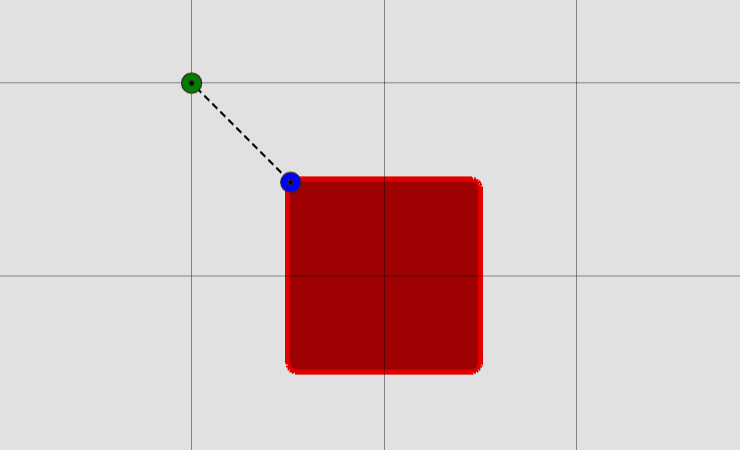
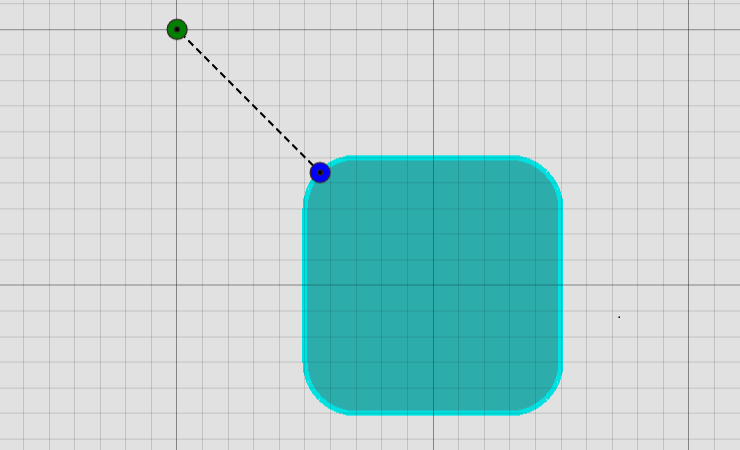
Changed samples/images from solid red

diff --git a/src/frontend-samples/geometry-samples/simple-3d-sample/Simple3dUI.tsx b/src/frontend-samples/geometry-samples/simple-3d-sample/Simple3dUI.tsx
@@ -4,9 +4,8 @@
 *--------------------------------------------------------------------------------------------*/
 import * as React from "react";
 import { BlankViewport } from "common/GeometryCommon/BlankViewport";
-import { ColorDef } from "@bentley/imodeljs-common";
+import { ColorByName, ColorDef } from "@bentley/imodeljs-common";
 import { ControlPane } from "Components/ControlPane/ControlPane"; import { NumericInput, Select } from "@bentley/ui-core";
-import { ColorPickerButton } from "@bentley/ui-components";
 import Simple3dApp from "./Simple3dApp";
 import { PolyfaceBuilder, StrokeOptions } from "@bentley/geometry-core";
 import { GeometryDecorator } from "common/GeometryCommon/GeometryDecorator";
@@ -36,7 +35,7 @@ export default class Simple3dUI extends React.Component<{}, Simple3dState> {
     IModelApp.viewManager.addDecorator(decorator);
     this.state = {
       shape: "Box",
-      color: ColorDef.red,
+      color: ColorDef.fromTbgr(ColorDef.withTransparency(ColorDef.create(ColorByName.cyan).tbgr, 50)),
       sphereRadius: 4,
       boxLength: 4,
       boxWidth: 4,
@@ -95,8 +94,6 @@ export default class Simple3dUI extends React.Component<{}, Simple3dState> {
         <div className="sample-options-2col">
           <span>Shape:</span>
           <Select options={["Box", "Cone", "Sphere", "Torus Pipe"]} onChange={(event) => { this.setState({ shape: event.target.value }); }} />
-          <span>Color:</span>
-          <ColorPickerButton initialColor={this.state.color} onColorPick={(color: ColorDef) => { this.setState({ color }); }} />
           {this.state.shape === "Sphere" ? <span>Radius:</span> : undefined}
           {this.state.shape === "Sphere" ? <NumericInput defaultValue={this.state.sphereRadius} min={0} max={500} onChange={(value) => { if (value) this.setState({ sphereRadius: value }); }}></NumericInput> : undefined}
 

diff --git a/src/frontend-samples/geometry-samples/advanced-3d-sample/Advanced3dUI.tsx b/src/frontend-samples/geometry-samples/advanced-3d-sample/Advanced3dUI.tsx
@@ -4,10 +4,9 @@
 *--------------------------------------------------------------------------------------------*/
 import * as React from "react";
 import { BlankViewport } from "common/GeometryCommon/BlankViewport";
-import { ColorDef } from "@bentley/imodeljs-common";
+import { ColorByName, ColorDef } from "@bentley/imodeljs-common";
 import { ControlPane } from "Components/ControlPane/ControlPane";
 import { Select } from "@bentley/ui-core";
-import { ColorPickerButton } from "@bentley/ui-components";
 import Advanced3dApp from "./Advanced3dApp";
 import { IModelApp } from "@bentley/imodeljs-frontend";
 import { GeometryDecorator } from "common/GeometryCommon/GeometryDecorator";
@@ -27,7 +26,7 @@ export default class Advanced3d extends React.Component<{}, Advanced3dState> {
     IModelApp.viewManager.addDecorator(decorator);
     this.state = {
       shape: "Sweeps",
-      color: ColorDef.red,
+      color: ColorDef.fromTbgr(ColorDef.withTransparency(ColorDef.create(ColorByName.cyan).tbgr, 50)),
       sweepType: "Linear",
       decorator,
     };
@@ -59,8 +58,6 @@ export default class Advanced3d extends React.Component<{}, Advanced3dState> {
         <div className="sample-options-2col">
           <span>Shape:</span>
           <Select options={["Sweeps", "Mitered Pipes"]} onChange={(event) => { this.setState({ shape: event.target.value }); }} />
-          <span>Color:</span>
-          <ColorPickerButton initialColor={this.state.color} onColorPick={(color: ColorDef) => { this.setState({ color }); }} />
           {this.state.shape === "Sweeps" ? <span>Sweep Type:</span> : undefined}
           {this.state.shape === "Sweeps" ? <Select options={["Linear", "Ruled", "Rotational"]} onChange={(event) => { this.setState({ sweepType: event.target.value }); }} /> : undefined}
         </div>

diff --git a/src/frontend-samples/geometry-samples/2d-transformations-sample/2dTransformationsUI.tsx b/src/frontend-samples/geometry-samples/2d-transformations-sample/2dTransformationsUI.tsx
@@ -5,7 +5,7 @@
 import * as React from "react";
 import { BlankViewport } from "common/GeometryCommon/BlankViewport";
 import { Loop, Point3d } from "@bentley/geometry-core";
-import { ColorDef } from "@bentley/imodeljs-common";
+import { ColorByName, ColorDef } from "@bentley/imodeljs-common";
 import { ControlPane } from "Components/ControlPane/ControlPane";
 import { Button, NumericInput, Select } from "@bentley/ui-core";
 import Transformations2dApp from "./2dTransformationsApp";
@@ -30,7 +30,7 @@ export default class Transformations2dUI extends React.Component<{}, Transformat
     IModelApp.viewManager.addDecorator(decorator);
     this.state = {
       shape: "Square",
-      color: ColorDef.red,
+      color: ColorDef.fromTbgr(ColorDef.withTransparency(ColorDef.create(ColorByName.cyan).tbgr, 50)),
       xTrans: 1,
       yTrans: 1,
       rotationDeg: 180,
@@ -42,7 +42,7 @@ export default class Transformations2dUI extends React.Component<{}, Transformat
   public componentDidUpdate() {
     if (this.state.geometry) {
       this.state.decorator.clearGeometry();
-      this.state.decorator.setColor(ColorDef.red);
+      this.state.decorator.setColor(this.state.color);
       this.state.decorator.setLineThickness(5);
       this.state.decorator.addGeometry(this.state.geometry);
     }

diff --git a/src/frontend-samples/geometry-samples/closest-point-curve-sample/ClosestPointOnCurveUI.tsx b/src/frontend-samples/geometry-samples/closest-point-curve-sample/ClosestPointOnCurveUI.tsx
@@ -8,7 +8,7 @@ import { ControlPane } from "Components/ControlPane/ControlPane";
 import { Input, NumericInput, Select } from "@bentley/ui-core";
 import ClosestPointOnCurveApp from "./ClosestPointOnCurveApp";
 import { CurvePrimitive, LineSegment3d, Point3d } from "@bentley/geometry-core";
-import { ColorDef, LinePixels } from "@bentley/imodeljs-common";
+import { ColorByName, ColorDef, LinePixels } from "@bentley/imodeljs-common";
 import { InteractivePointMarker } from "common/GeometryCommon/InteractivePointMarker";
 import { IModelApp } from "@bentley/imodeljs-frontend";
 import { GeometryDecorator } from "common/GeometryCommon/GeometryDecorator";
@@ -114,7 +114,7 @@ export default class ClosestPointOnCurveUI extends React.Component<{}, ClosestPo
     // Add the curvePrimitive
     this.state.decorator.setColor(ColorDef.black);
     this.state.decorator.setFill(true);
-    this.state.decorator.setFillColor(ColorDef.red);
+    this.state.decorator.setFillColor(ColorDef.fromTbgr(ColorDef.withTransparency(ColorDef.create(ColorByName.cyan).tbgr, 50)));
     this.state.decorator.setLineThickness(5);
     this.state.decorator.setLinePixels(LinePixels.Solid);
     this.state.decorator.addGeometry(this.curve);

diff --git a/src/frontend-samples/geometry-samples/simple-line-sample/SimpleLineUI.tsx b/src/frontend-samples/geometry-samples/simple-line-sample/SimpleLineUI.tsx
@@ -10,7 +10,7 @@ import SimpleLineApp from "./SimpleLineApp";
 import { GeometryDecorator } from "common/GeometryCommon/GeometryDecorator";
 import { IModelApp } from "@bentley/imodeljs-frontend";
 import { InteractivePointMarker } from "common/GeometryCommon/InteractivePointMarker";
-import { ColorDef } from "@bentley/imodeljs-common";
+import { ColorByName, ColorDef } from "@bentley/imodeljs-common";
 
 interface SimpleLineState {
   point1X: number;
@@ -80,7 +80,7 @@ export default class SimpleLine extends React.Component<{}, SimpleLineState> {
     const fractions = [0.0, 0.1, 0.15, 0.2, 0.25, 0.5, 0.9, 1.0, 1.1];
     const points = SimpleLineApp.createPointsAlongLine(myLine, fractions);
     points.forEach((point, i) => {
-      const marker = new InteractivePointMarker(point, `Fraction = ${fractions[i]}`, ColorDef.red, () => { });
+      const marker = new InteractivePointMarker(point, `Fraction = ${fractions[i]}`, ColorDef.fromTbgr(ColorDef.withTransparency(ColorDef.create(ColorByName.cyan).tbgr, 50)), () => { });
       this.state.decorator.addMarker(marker);
     })
   }
